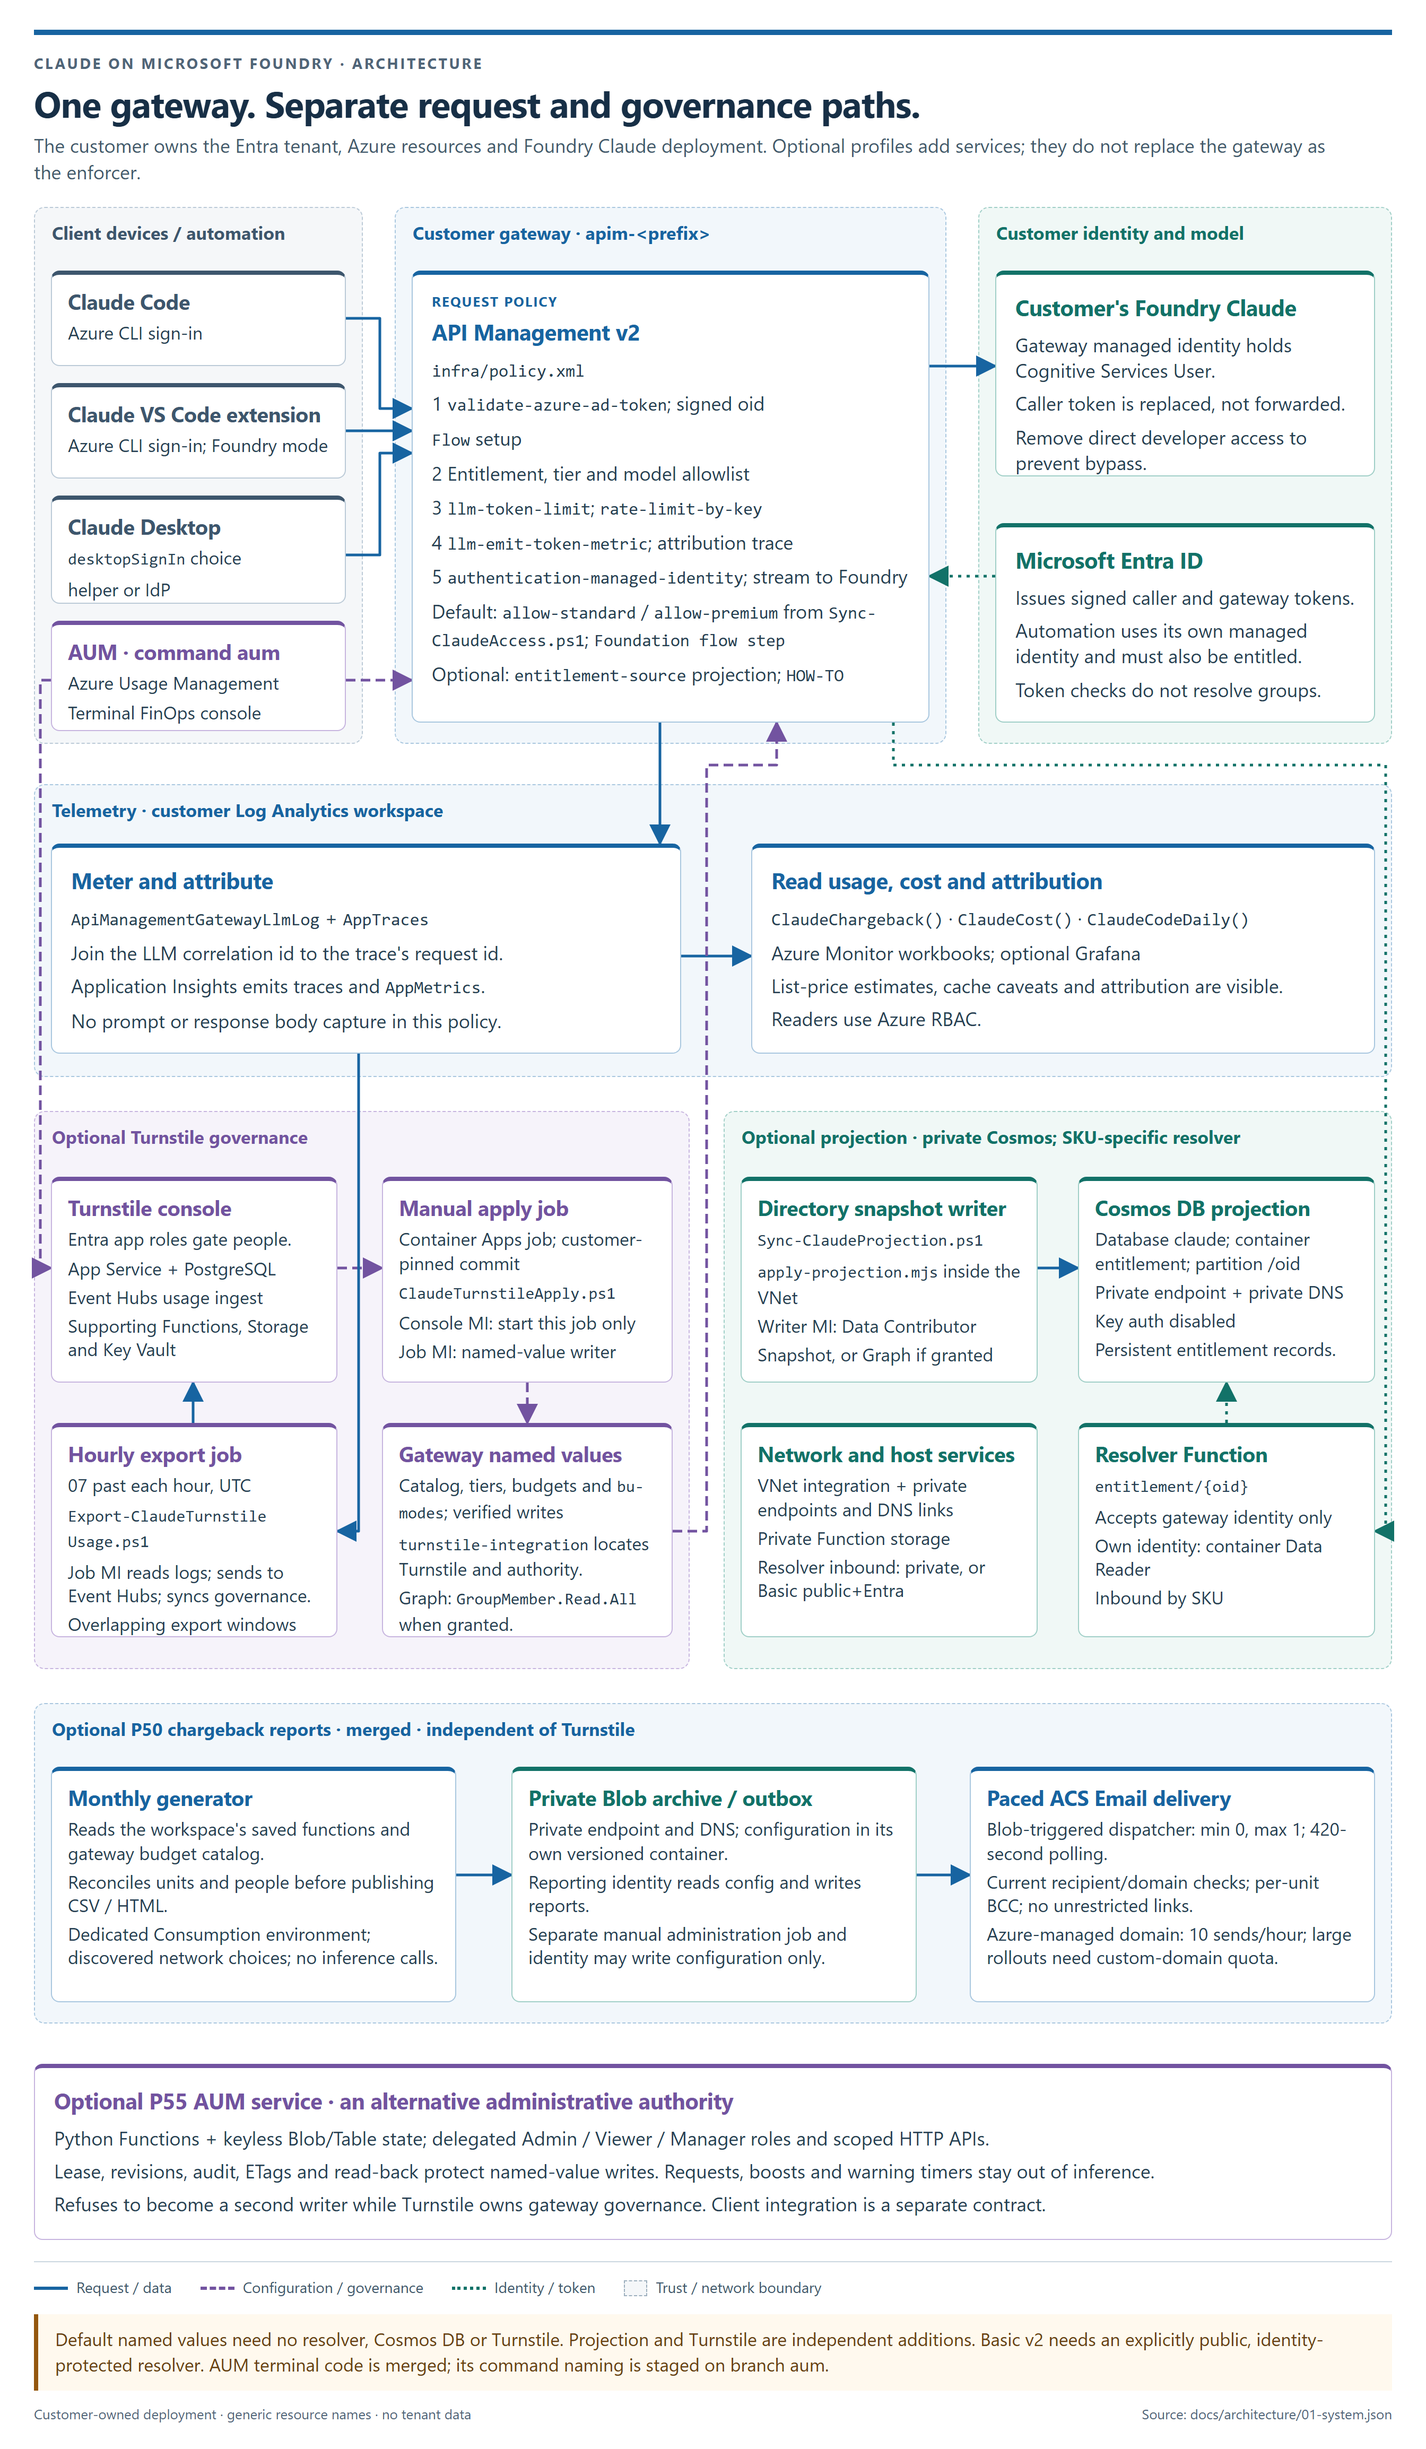
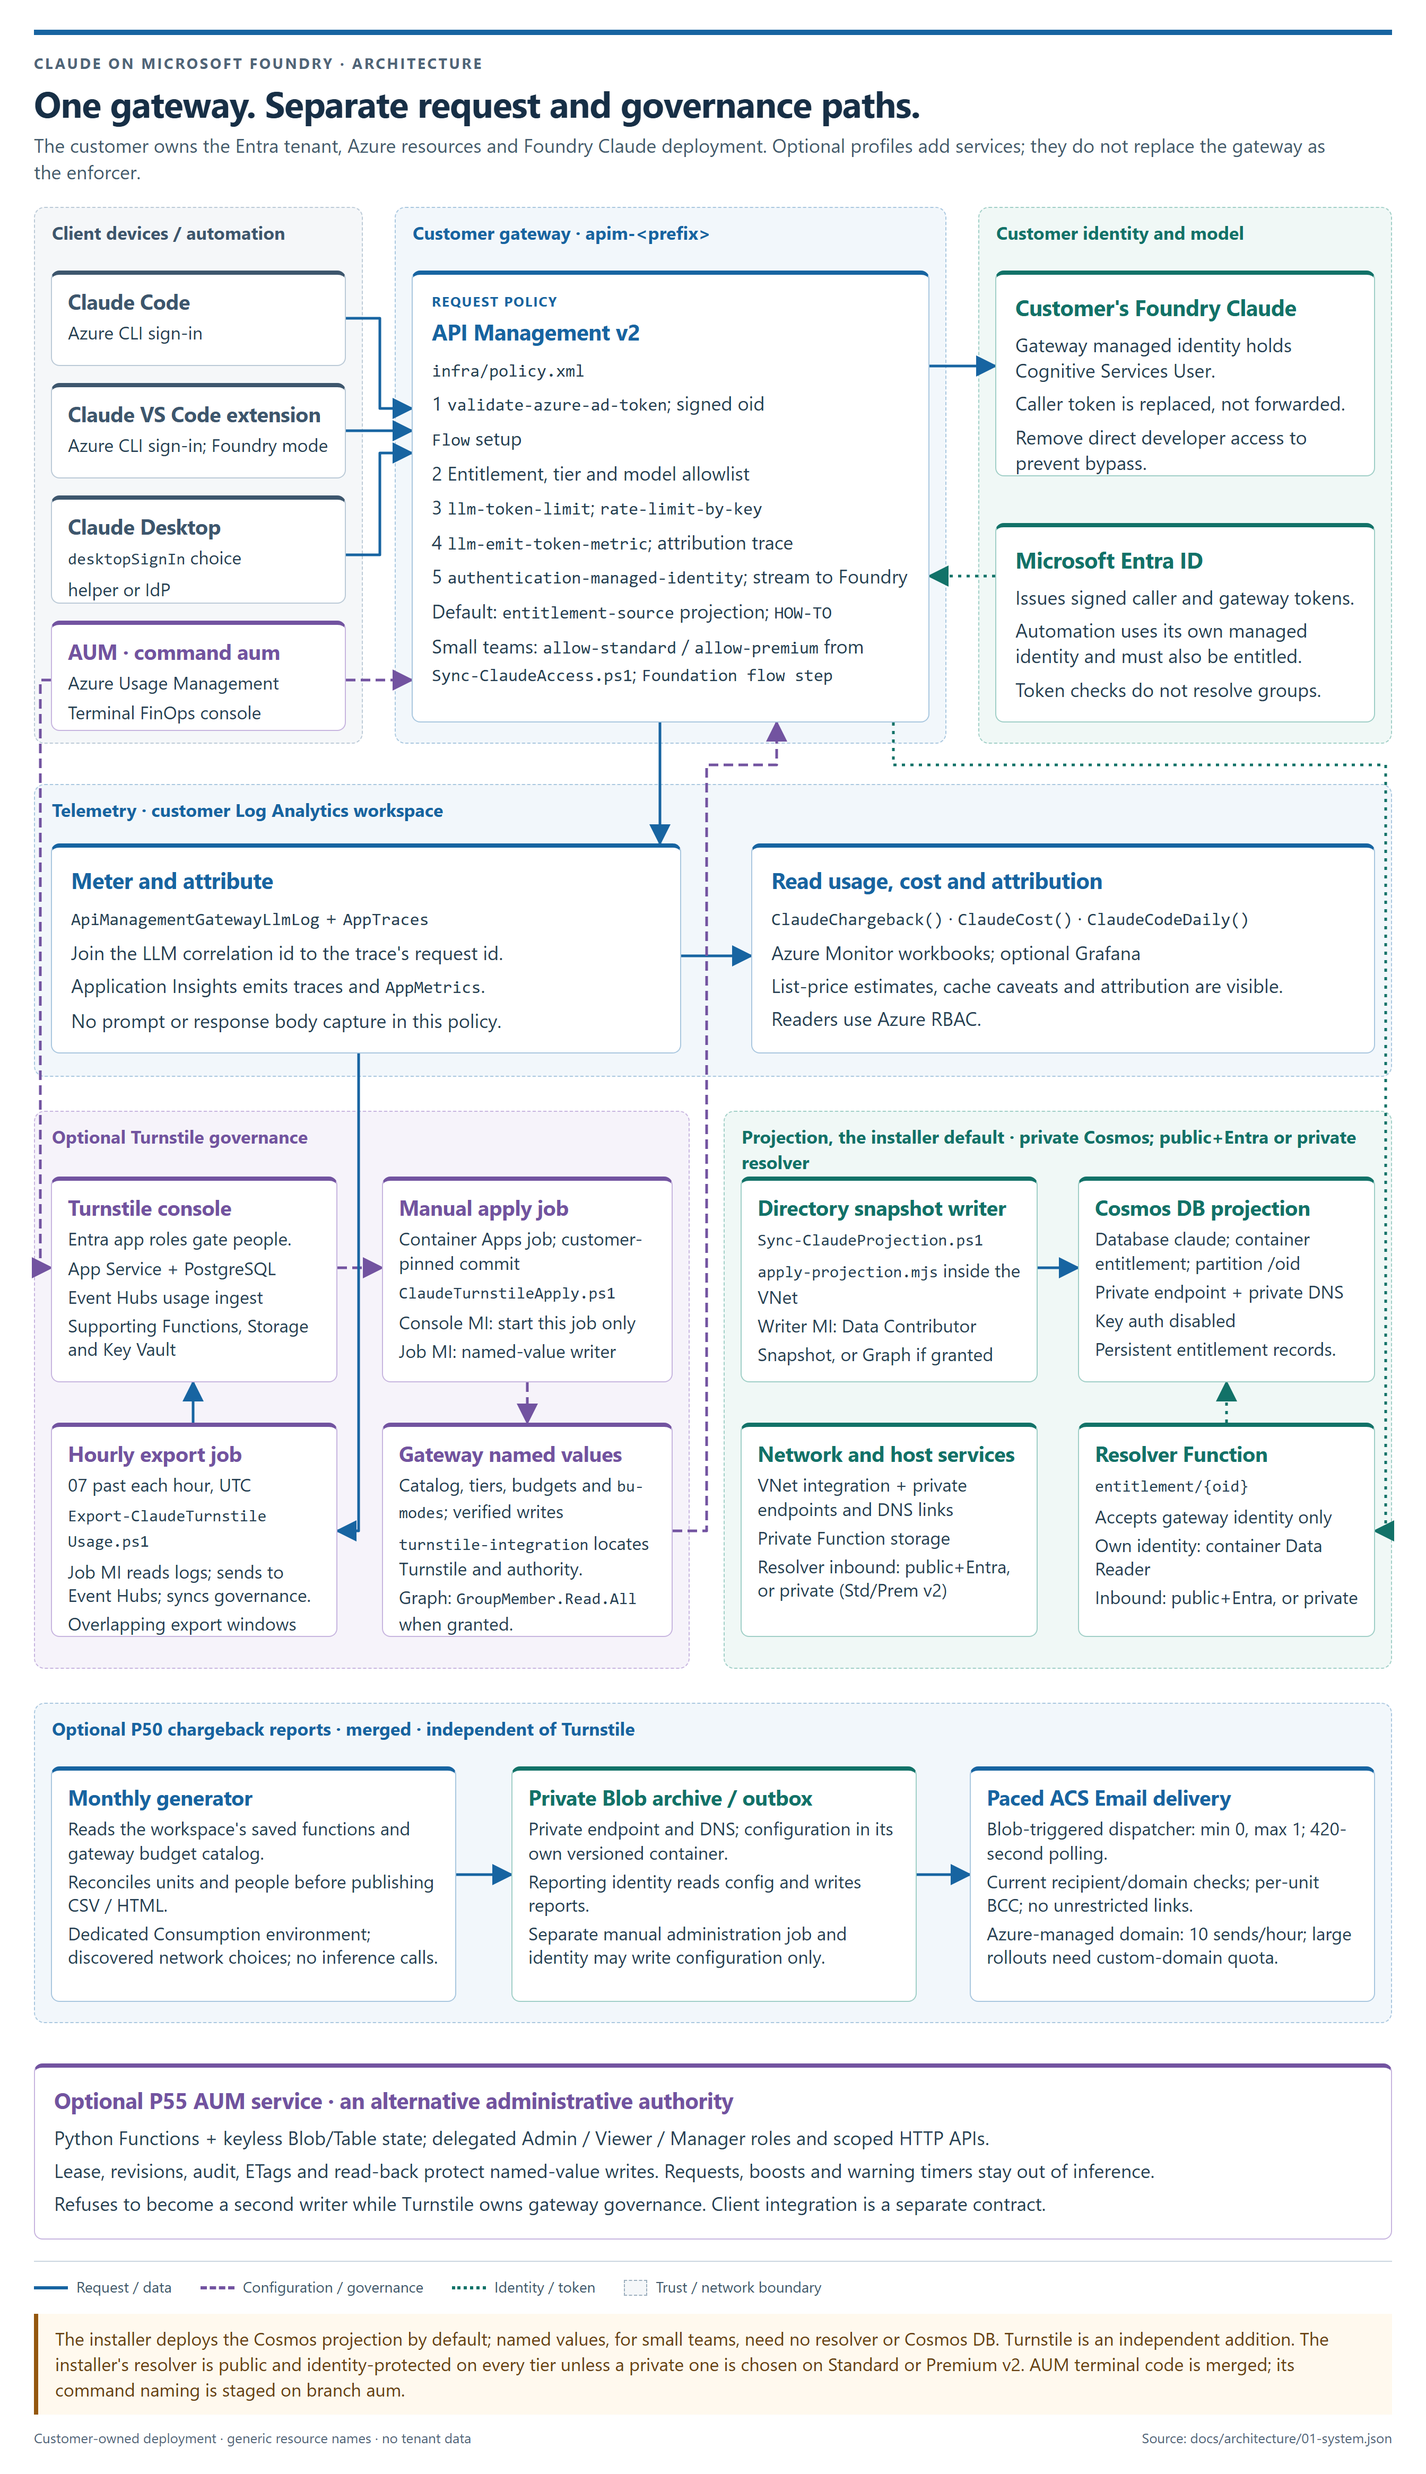
docs(p98): the projection is the installer default in every document and diagram
ADR-0052 made the Cosmos projection the installer's default store; several
documents still described named values as the default.
- ADR-0028: the installer's default resolver access is superseded by
  ADR-0052; Deploy-ClaudeProjection.ps1 run on its own keeps its per-tier
  default.
- ARCHITECTURE.md profile table: the default profile is the projection;
  named values are for small teams.
- SECURE-PROJECTION, SCALE (resolver table) and UPDATE-AND-CHANGE: the
  installer path deploys and switches the projection; the live-run section's
  steps are numbered 1-6.
- docs/architecture/01-system.json: group title, the gateway box's default
  lines, resolver inbound and the notice; images and manifest re-rendered.

Test-Architecture 36, Test-DocReferences 64, Test-SecureProjection 126,
Test-Scale 211 passed.

Copilot-Session: aee52ac6-1314-40f4-9675-e225529db617

diff --git a/docs/SECURE-PROJECTION.md b/docs/SECURE-PROJECTION.md
@@ -28,8 +28,10 @@ hundred developers entitlement has to move to the **projection**: one Cosmos DB
 record per developer, read through a small resolver Function when the gateway's
 cache misses.
 
-This article deploys private endpoints for Cosmos DB and resolver storage. On
-Standard v2 and Premium v2, it also makes the resolver inbound path private. On
+This article deploys private endpoints for Cosmos DB and resolver storage. The
+installer deploys a public, Entra-authenticated resolver on every tier
+([ADR-0052](adr/0052-cosmos-default-installer.md)). `Deploy-ClaudeProjection.ps1` run on its own
+makes the resolver inbound path private on Standard v2 and Premium v2. On
 Basic v2, the resolver inbound path is public because Basic v2 has no outbound
 VNet integration; the resolver is still Microsoft Entra-authenticated and allows
 only the gateway managed identity. APIM ingress remains public and authenticated;
@@ -58,7 +60,7 @@ entitlement read/write path, not the inference or reporting topology.
 Developer ──Entra token──▶ API Management (public gateway)
                               │  managed identity token, audience api://<resolver-app>
                               ▼
-                        Resolver (Flex Consumption)   ◀── private endpoint, or public+Entra on Basic v2
+                        Resolver (Flex Consumption)   ◀── public+Entra, or private endpoint on Standard/Premium v2
                               │  managed identity, read only, one container
                               ▼
                         Cosmos DB (serverless)        ◀── private endpoint only
@@ -73,7 +75,7 @@ network owner. This is outbound integration, not a private client ingress.
 | Component | Authenticates with | Reachable from | Key authentication |
 |---|---|---|---|
 | Cosmos DB account | Entra only | Private endpoint | Off (`disableLocalAuth`) |
-| Resolver Function | Built-in authentication: the gateway's identity only | Private endpoint on Standard/Premium v2; public endpoint on Basic v2 | Basic publishing off, FTP off |
+| Resolver Function | Built-in authentication: the gateway's identity only | Public endpoint by default from the installer, on every tier; private endpoint on Standard/Premium v2 with `-ResolverInboundAccess private`, the standalone deployer's default on those tiers | Basic publishing off, FTP off |
 | Resolver storage | Entra only | Private endpoints (blob, queue, table) | Off (`allowSharedKeyAccess: false`) |
 | Application Insights | Entra only | Public ingestion, identity required | Off (`DisableLocalAuth`) |
 | Foundry account | The gateway's identity | Private endpoint | Unchanged by this article |
@@ -86,7 +88,7 @@ resolver therefore cannot change who is entitled.
 
 | Requirement | Detail |
 |---|---|
-| Gateway tier | **Standard v2 or Premium v2** for the private resolver profile. **Basic v2** uses `inboundAccess=public` with App Service Authentication and exact gateway managed-identity allow lists; Cosmos remains private. |
+| Gateway tier | Any v2 tier. The public resolver profile (the installer's default) uses `inboundAccess=public` with App Service Authentication and exact gateway managed-identity allow lists. The private resolver profile needs **Standard v2 or Premium v2** with outbound VNet integration. Cosmos remains private in both. |
 | Roles | Owner, or Contributor plus User Access Administrator, on deployment resources; network join/write rights on the supplied VNet/subnets/DNS; application registration/assignment rights in Entra ID. Azure subscription Owner is not a directory role. |
 | Resource providers | Registered: `Microsoft.App`, `Microsoft.DocumentDB`, `Microsoft.Web`, `Microsoft.ContainerInstance`, `Microsoft.Network`, `Microsoft.Storage`, `Microsoft.OperationalInsights`, `Microsoft.Insights` and `Microsoft.Authorization`. These cover the resources and delegations in `infra/projection.bicep:95`, `infra/projection-network.bicep:67` and `infra/resolver.bicep:137`. |
 | Region capacity | Cosmos regional capacity cannot be checked in advance or reserved by preflight. Measured: Canada Central and Canada East both refused with `ServiceUnavailable ... high demand ... To request region access for your subscription, please follow this link https://aka.ms/cosmosdbquota`. A private endpoint can point at an account in another region, so a Cosmos DB account elsewhere still stays private in the VNet. |
@@ -198,16 +200,19 @@ guide](AZ-COMMANDS.md#10-optional-cosmos-projection), skips switch evidence.
 
 #### Owner-attended live run
 
-No live tenant has run these steps. Each row states what the step shows.
+On 2026-10-06 `scripts/Test-ClaudeLiveProjection.ps1` ran the installer's projection path in a test
+tenant on a disposable Basic v2 gateway: steps 1, 2 (with `-User`) and 4, then requests that returned
+200, 403 after a removal and targeted sync, and 200 after re-adding. Steps 3 and 6, the optional job
+and a full sync without `-User` have not run in a live tenant. Each row states what the step shows.
 
 | Step | Command or place | Shows |
 |---|---|---|
 | 1. Projection | `scripts/Deploy-ClaudeProjection.ps1` without `-FlipAfterCleanCompare` ([one-command deployment](#one-command-deployment)) | Cosmos, the network, the resolver, `entitlement-projection-prefix`, the resolver named values, population and a clean compare |
 | 2. Sync | `scripts/Sync-ClaudeAccess.ps1 -ResourceGroup <rg> -ApimName <apim>` or `az containerapp job start` for the optional job | A successful full sync status record exists in Cosmos |
 | 3. Check | Step 1's command with `-FlipAfterCleanCompare -WhatIf` | Resolver checks, drift check, runner compare and switch evidence pass |
-| 7. Switch | Step 6's command without `-WhatIf` | One write, the backup path and the rollback text |
-| 8. Requests | Section 11 of the [Azure CLI guide](AZ-COMMANDS.md#11-verification) | Requests resolve through the projection |
-| 9. Rollback, when needed | `scripts/Sync-ClaudeAccess.ps1`, `scripts/Compare-ClaudeEntitlement.ps1 -FailOnDrift`, then `entitlement-source` set to `named-value` | Named values serve again |
+| 4. Switch | Step 3's command without `-WhatIf` | One write, the backup path and the rollback text |
+| 5. Requests | Section 11 of the [Azure CLI guide](AZ-COMMANDS.md#11-verification) | Requests resolve through the projection |
+| 6. Rollback, when needed | `scripts/Sync-ClaudeAccess.ps1`, `scripts/Compare-ClaudeEntitlement.ps1 -FailOnDrift`, then `entitlement-source` set to `named-value` | Named values serve again |
 
 ### One-command deployment
 

diff --git a/docs/ARCHITECTURE.md b/docs/ARCHITECTURE.md
@@ -27,8 +27,8 @@ Source: [01-system.json](architecture/01-system.json).
 
 | Profile | Adds to the deployment | Identity and operational boundary |
 |---|---|---|
-| **Default: named values** | API Management v2, Application Insights and Log Analytics. Foundry already exists. Workbooks and saved KQL functions are published separately as definitions. | Entra groups are synchronized to gateway named values. No resolver, Cosmos database or Turnstile service is required. |
-| **Projection** | Cosmos DB, a resolver Function, Function host/deployment storage, private endpoints and DNS. A writer runs separately to reconcile the directory. | The writer and resolver have different identities and container-scoped data roles. Cosmos stays private. Standard v2 and Premium v2 use a private resolver; Basic v2 uses a public resolver endpoint restricted by Microsoft Entra to the gateway managed identity. |
+| **Default: projection** ([ADR-0052](adr/0052-cosmos-default-installer.md)) | API Management v2, Application Insights and Log Analytics, plus Cosmos DB, a resolver Function, Function host/deployment storage, private endpoints and DNS. An in-network runner applies directory snapshots; an optional job syncs very large directories. Foundry already exists. | The runner, the job and the resolver have different identities and container-scoped data roles. Cosmos stays private. The installer deploys a public resolver endpoint restricted by Microsoft Entra to the gateway managed identity on every tier, and a private resolver on Standard v2 or Premium v2 with `-ResolverInboundAccess private`. |
+| **Named values** | API Management v2, Application Insights and Log Analytics only. For small teams: named values hold about 93 to 110 developers ([SCALE](SCALE.md)). | Entra groups are synchronized to gateway named values. No resolver, Cosmos database or Turnstile service is required. |
 | **Turnstile** | A separate fork deployment: App Service, PostgreSQL, Event Hubs and supporting Functions, Storage, Key Vault and networking. This repository adds the manual apply and hourly export Container Apps jobs. | Entra app roles control console access. The console starts one apply job; the job, not the console, writes gateway named values. |
 | **AUM (Azure Usage Management)** | A local Python terminal FinOps console, command `aum`; no new inference service or mandatory Azure resource. The terminal release is merged; the naming packet is staged on branch `aum`. | It uses Turnstile's HTTP API or Direct Azure with the operator's Azure CLI sign-in. A fake backend is for tests, never an outage fallback. |
 | **Monthly chargeback reports (P50)** | A separate Consumption environment, generator/dispatcher/admin jobs, discovered existing or explicit new VNet, private Blob storage and Azure Communication Services Email. | The reporting identity reads telemetry/configuration and writes reports. A separate administration identity writes configuration only. No Turnstile dependency. |

diff --git a/docs/SCALE.md b/docs/SCALE.md
@@ -63,11 +63,15 @@ a runner compare and Cosmos switch evidence without waiting for a scheduled job
 
 The SKU changes the resolver inbound path, not the Cosmos rule:
 
-| Gateway SKU | Resolver path | Cosmos path |
-|---|---|---|
-| Basic v2 | Public Function endpoint, authenticated by Microsoft Entra and allowed only for the gateway managed identity | Private endpoint and private DNS |
-| Standard v2 | Private resolver endpoint reached through outbound VNet integration | Private endpoint and private DNS |
-| Premium v2 | Private resolver endpoint reached through Premium v2 networking | Private endpoint and private DNS |
+| Gateway SKU | Resolver path from the installer (default) | Private resolver option | Cosmos path |
+|---|---|---|---|
+| Basic v2 | Public Function endpoint, authenticated by Microsoft Entra and allowed only for the gateway managed identity | None: Basic v2 has no outbound VNet integration | Private endpoint and private DNS |
+| Standard v2 | Public, as on Basic v2 | `-ResolverInboundAccess private`: a private endpoint reached through outbound VNet integration | Private endpoint and private DNS |
+| Premium v2 | Public, as on Basic v2 | `-ResolverInboundAccess private`: a private endpoint reached through Premium v2 networking | Private endpoint and private DNS |
+
+The installer's default is [ADR-0052](adr/0052-cosmos-default-installer.md);
+`Deploy-ClaudeProjection.ps1` run on its own uses the private option on Standard v2 and Premium v2
+([ADR-0028](adr/0028-basic-v2-projection-resolver.md)).
 
 `scripts/Measure-ClaudeProjectionCost.ps1 -P61Scenarios` prices the 100 and 500
 developer shapes. On 2026-09-26 in East US 2, excluding the APIM gateway cost,

diff --git a/docs/adr/0028-basic-v2-projection-resolver.md b/docs/adr/0028-basic-v2-projection-resolver.md
@@ -1,6 +1,6 @@
 # ADR-0028: Basic v2 uses a public Entra-authenticated resolver for the private projection
 
-- **Status:** Accepted
+- **Status:** Accepted. For the installer, the resolver default below is superseded by [ADR-0052](0052-cosmos-default-installer.md) (2026-10-06): `Install-ClaudeGateway.ps1` deploys a public, Entra-authenticated resolver on every tier unless `-ResolverInboundAccess private` is passed on Standard v2 or Premium v2. `scripts/Deploy-ClaudeProjection.ps1` run on its own keeps the per-tier default in this record.
 - **Date:** 2026-09-26
 - **Packet:** P61
 - **Refines:** [ADR-0005](0005-identity-projection.md), [ADR-0011](0011-projection-platform.md),

diff --git a/docs/UPDATE-AND-CHANGE.md b/docs/UPDATE-AND-CHANGE.md
@@ -102,7 +102,10 @@ SKU rules from P61:
 
 - Basic v2 uses a public resolver endpoint protected by Microsoft Entra and pinned to the gateway
   managed identity; Cosmos stays private.
-- Standard v2 and Premium v2 use a private resolver reachable from the gateway's VNet integration.
+- The installer deploys that public resolver on Standard v2 and Premium v2 too, by default
+  ([ADR-0052](adr/0052-cosmos-default-installer.md)); `-ResolverInboundAccess private` gives them a private
+  resolver reachable from the gateway's VNet integration, the default of `Deploy-ClaudeProjection.ps1`
+  run on its own.
 
 Manual equivalent:
 
